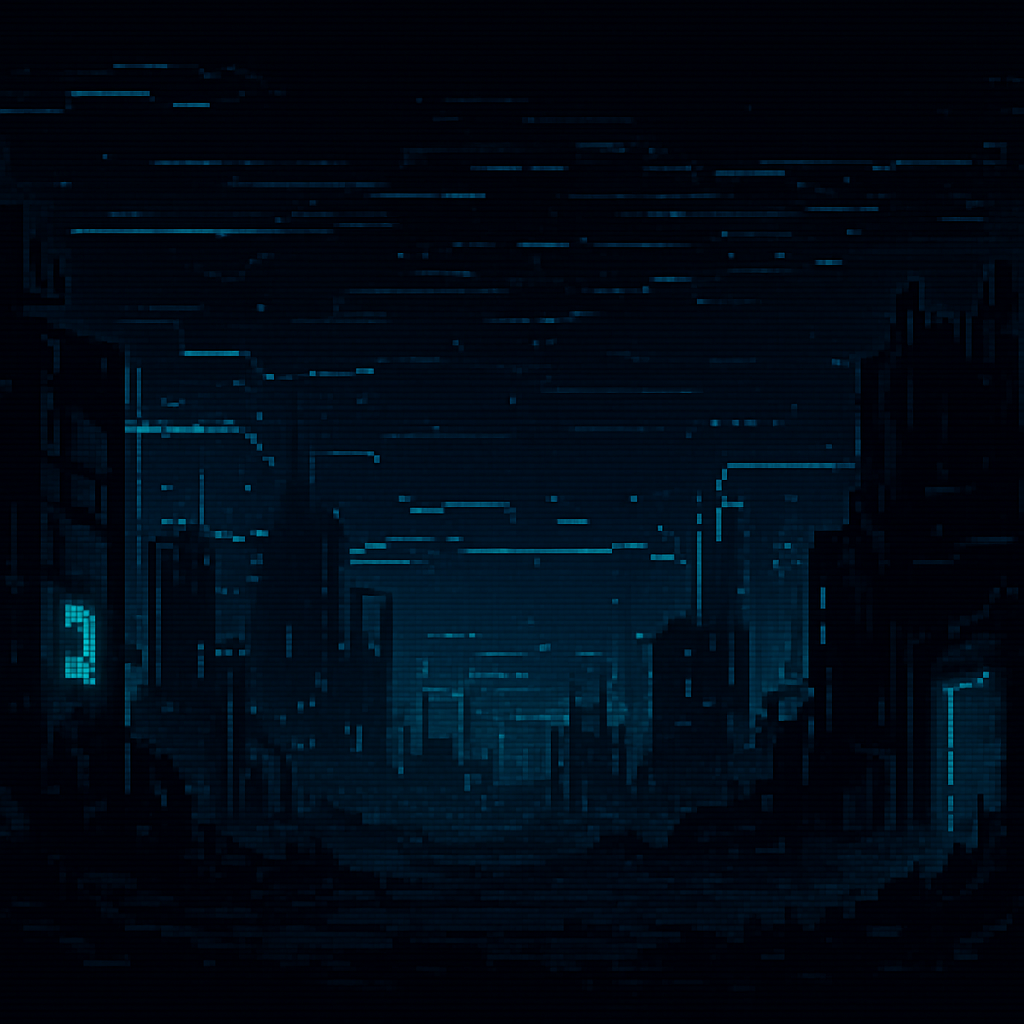
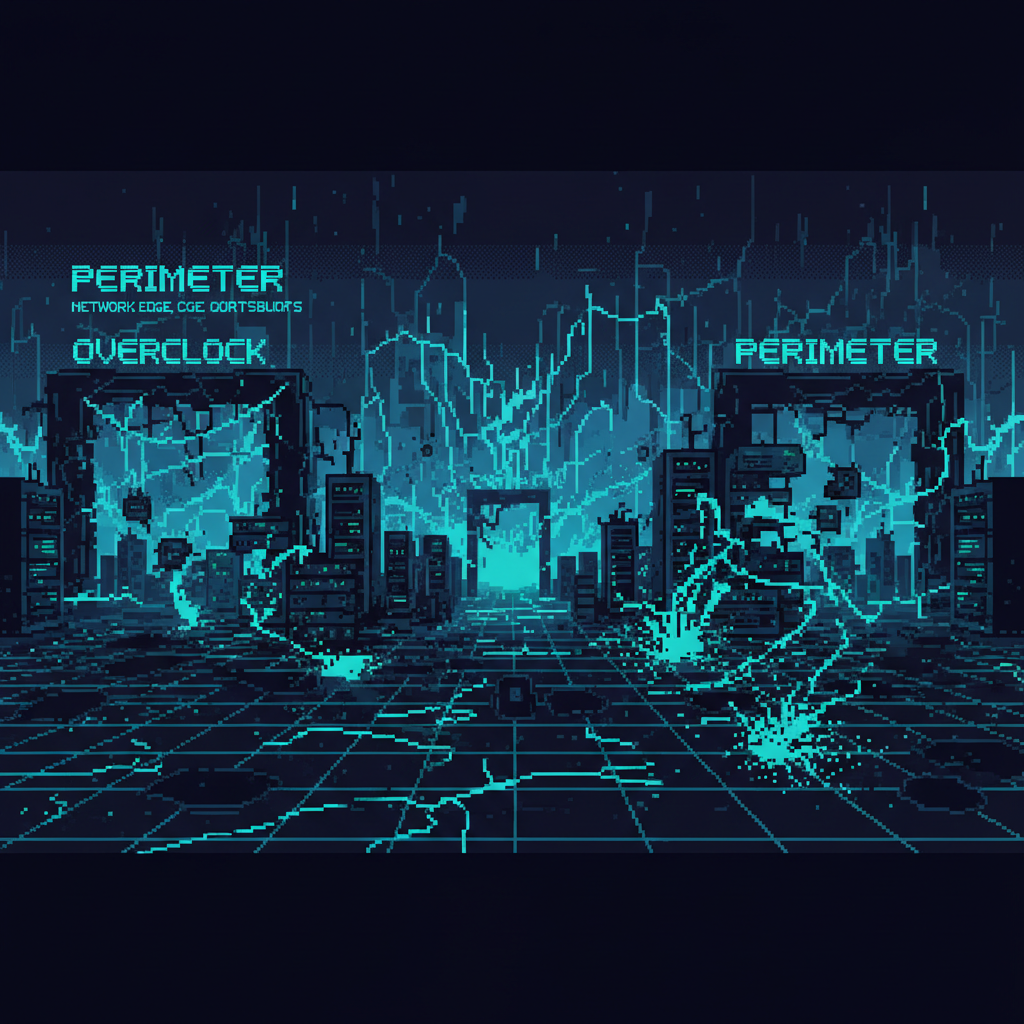
feat: update sprite background to magenta and remove background images

diff --git a/src/config/assets.config.ts b/src/config/assets.config.ts
@@ -49,64 +49,19 @@ export interface MonsterSpriteDef {
 
 export const MONSTER_SPRITES: MonsterSpriteDef[] = [
   // ════════════════════════════════════════════════════════════════════════════
-  // TIER 1 ENEMIES (Stages 1-50: PERIMETER) - 25 enemies
+  // TIER 1 ENEMIES (Stages 1-50: PERIMETER) - 5 enemies
   // Lesser malware, glitchy viruses, weak but hostile digital creatures
   // ════════════════════════════════════════════════════════════════════════════
-  { name: 'MALWARE_BAT', tiers: [{ tier: 1, src: '/assets/enemies/tier1/malware_bat.png', scale: 1.0 }] },
-  { name: 'CORRUPT_PROC', tiers: [{ tier: 1, src: '/assets/enemies/tier1/corrupt_proc.png', scale: 1.0 }] },
-  { name: 'NULL_PTR', tiers: [{ tier: 1, src: '/assets/enemies/tier1/null_ptr.png', scale: 1.0 }] },
-  { name: 'STACK_OVERFLOW', tiers: [{ tier: 1, src: '/assets/enemies/tier1/stack_overflow.png', scale: 1.0 }] },
-  { name: 'SPAM_BOT', tiers: [{ tier: 1, src: '/assets/enemies/tier1/spam_bot.png', scale: 1.0 }] },
-  { name: 'ADWARE_IMP', tiers: [{ tier: 1, src: '/assets/enemies/tier1/adware_imp.png', scale: 1.0 }] },
-  { name: 'POPUP_GREMLIN', tiers: [{ tier: 1, src: '/assets/enemies/tier1/popup_gremlin.png', scale: 1.0 }] },
-  { name: 'COOKIE_THIEF', tiers: [{ tier: 1, src: '/assets/enemies/tier1/cookie_thief.png', scale: 1.0 }] },
-  { name: 'SCRIPT_KIDDIE', tiers: [{ tier: 1, src: '/assets/enemies/tier1/script_kiddie.png', scale: 1.0 }] },
-  { name: 'TOOLBAR_WORM', tiers: [{ tier: 1, src: '/assets/enemies/tier1/toolbar_worm.png', scale: 1.0 }] },
-  { name: 'CACHE_GOBLIN', tiers: [{ tier: 1, src: '/assets/enemies/tier1/cache_goblin.png', scale: 1.0 }] },
-  { name: 'PING_PHANTOM', tiers: [{ tier: 1, src: '/assets/enemies/tier1/ping_phantom.png', scale: 1.0 }] },
-  { name: 'SYNTAX_ERROR', tiers: [{ tier: 1, src: '/assets/enemies/tier1/syntax_error.png', scale: 1.0 }] },
-  { name: 'BUG_SWARM', tiers: [{ tier: 1, src: '/assets/enemies/tier1/bug_swarm.png', scale: 1.0 }] },
-  { name: 'PIXEL_GLITCH', tiers: [{ tier: 1, src: '/assets/enemies/tier1/pixel_glitch.png', scale: 1.0 }] },
-  { name: 'BYTE_MITE', tiers: [{ tier: 1, src: '/assets/enemies/tier1/byte_mite.png', scale: 1.0 }] },
-  { name: 'DATA_LEECH', tiers: [{ tier: 1, src: '/assets/enemies/tier1/data_leech.png', scale: 1.0 }] },
-  { name: 'TEMP_FILE', tiers: [{ tier: 1, src: '/assets/enemies/tier1/temp_file.png', scale: 1.0 }] },
-  { name: 'JUNK_CODE', tiers: [{ tier: 1, src: '/assets/enemies/tier1/junk_code.png', scale: 1.0 }] },
-  { name: 'DEAD_LINK', tiers: [{ tier: 1, src: '/assets/enemies/tier1/dead_link.png', scale: 1.0 }] },
-  { name: 'BROKEN_PIPE', tiers: [{ tier: 1, src: '/assets/enemies/tier1/broken_pipe.png', scale: 1.0 }] },
-  { name: 'LOST_PACKET', tiers: [{ tier: 1, src: '/assets/enemies/tier1/lost_packet.png', scale: 1.0 }] },
-  { name: 'GARBAGE_COLLECTOR', tiers: [{ tier: 1, src: '/assets/enemies/tier1/garbage_collector.png', scale: 1.0 }] },
-  { name: 'MEMORY_FRAGMENT', tiers: [{ tier: 1, src: '/assets/enemies/tier1/memory_fragment.png', scale: 1.0 }] },
-  { name: 'ORPHAN_PROCESS', tiers: [{ tier: 1, src: '/assets/enemies/tier1/orphan_process.png', scale: 1.0 }] },
+  { name: 'GLITCH_BAT', tiers: [{ tier: 1, src: '/assets/enemies/tier1/glitch_bat.png', scale: 1.0 }] },
+  { name: 'DATA_WORM', tiers: [{ tier: 1, src: '/assets/enemies/tier1/data_worm.png', scale: 1.0 }] },
+  { name: 'PIXEL_SPIDER', tiers: [{ tier: 1, src: '/assets/enemies/tier1/pixel_spider.png', scale: 1.0 }] },
+  { name: 'ERROR_SKULL', tiers: [{ tier: 1, src: '/assets/enemies/tier1/error_skull.png', scale: 1.0 }] },
+  { name: 'VIRUS_BLOB', tiers: [{ tier: 1, src: '/assets/enemies/tier1/virus_blob.png', scale: 1.0 }] },
 
   // ════════════════════════════════════════════════════════════════════════════
-  // ELITE ENEMIES - 10 elite variants (stronger, can appear in any tier)
-  // Medium-sized, more detailed, golden/special auras
+  // BOSS SPRITES
   // ════════════════════════════════════════════════════════════════════════════
-  { name: 'ALPHA_VIRUS', tiers: [{ tier: 1, src: '/assets/enemies/elite/alpha_virus.png', scale: 1.1 }] },
-  { name: 'CHROME_HUNTER', tiers: [{ tier: 1, src: '/assets/enemies/elite/chrome_hunter.png', scale: 1.1 }] },
-  { name: 'NEON_WRAITH', tiers: [{ tier: 1, src: '/assets/enemies/elite/neon_wraith.png', scale: 1.1 }] },
-  { name: 'DATA_REAPER', tiers: [{ tier: 1, src: '/assets/enemies/elite/data_reaper.png', scale: 1.1 }] },
-  { name: 'FIREWALL_BREAKER', tiers: [{ tier: 1, src: '/assets/enemies/elite/firewall_breaker.png', scale: 1.1 }] },
-  { name: 'QUANTUM_SHIFTER', tiers: [{ tier: 1, src: '/assets/enemies/elite/quantum_shifter.png', scale: 1.1 }] },
-  { name: 'CRYPT_SENTINEL', tiers: [{ tier: 1, src: '/assets/enemies/elite/crypt_sentinel.png', scale: 1.1 }] },
-  { name: 'MEMORY_DEVOURER', tiers: [{ tier: 1, src: '/assets/enemies/elite/memory_devourer.png', scale: 1.1 }] },
-  { name: 'PROXY_ASSASSIN', tiers: [{ tier: 1, src: '/assets/enemies/elite/proxy_assassin.png', scale: 1.1 }] },
-  { name: 'OVERCLOCK_DAEMON', tiers: [{ tier: 1, src: '/assets/enemies/elite/overclock_daemon.png', scale: 1.1 }] },
-
-  // ════════════════════════════════════════════════════════════════════════════
-  // BOSS SPRITES (10 bosses that cycle through stages)
-  // Ironically hilarious but evil - each has a personality flaw
-  // ════════════════════════════════════════════════════════════════════════════
-  { name: 'THE_FIREWALL', tiers: [{ tier: 1, src: '/assets/enemies/boss_the_firewall.png', scale: 1.2 }], bossTiers: [{ tier: 1, src: '/assets/enemies/boss_the_firewall.png', scale: 1.2 }] },
-  { name: 'DARK_ANTIVIRUS', tiers: [{ tier: 1, src: '/assets/enemies/boss_dark_antivirus.png', scale: 1.2 }], bossTiers: [{ tier: 1, src: '/assets/enemies/boss_dark_antivirus.png', scale: 1.2 }] },
-  { name: 'CHAOS_KERNEL', tiers: [{ tier: 1, src: '/assets/enemies/boss_chaos_kernel.png', scale: 1.2 }], bossTiers: [{ tier: 1, src: '/assets/enemies/boss_chaos_kernel.png', scale: 1.2 }] },
-  { name: 'OMEGA_ROOTKIT', tiers: [{ tier: 1, src: '/assets/enemies/boss_omega_rootkit.png', scale: 1.2 }], bossTiers: [{ tier: 1, src: '/assets/enemies/boss_omega_rootkit.png', scale: 1.2 }] },
-  { name: 'SYSTEM32_WRAITH', tiers: [{ tier: 1, src: '/assets/enemies/boss_system32_wraith.png', scale: 1.2 }], bossTiers: [{ tier: 1, src: '/assets/enemies/boss_system32_wraith.png', scale: 1.2 }] },
-  { name: 'BIOS_CORRUPTION', tiers: [{ tier: 1, src: '/assets/enemies/boss_bios_corruption.png', scale: 1.2 }], bossTiers: [{ tier: 1, src: '/assets/enemies/boss_bios_corruption.png', scale: 1.2 }] },
-  { name: 'QUANTUM_MALWARE', tiers: [{ tier: 1, src: '/assets/enemies/boss_quantum_malware.png', scale: 1.2 }], bossTiers: [{ tier: 1, src: '/assets/enemies/boss_quantum_malware.png', scale: 1.2 }] },
-  { name: 'THE_NULL_GOD', tiers: [{ tier: 1, src: '/assets/enemies/boss_the_null_god.png', scale: 1.3 }], bossTiers: [{ tier: 1, src: '/assets/enemies/boss_the_null_god.png', scale: 1.3 }] },
-  { name: 'PHANTOM_OVERLORD', tiers: [{ tier: 1, src: '/assets/enemies/boss_phantom_overlord.png', scale: 1.3 }], bossTiers: [{ tier: 1, src: '/assets/enemies/boss_phantom_overlord.png', scale: 1.3 }] },
-  { name: 'DEEP_PACKET_KING', tiers: [{ tier: 1, src: '/assets/enemies/boss_deep_packet_king.png', scale: 1.3 }], bossTiers: [{ tier: 1, src: '/assets/enemies/boss_deep_packet_king.png', scale: 1.3 }] },
+  { name: 'THE_FIREWALL', tiers: [{ tier: 1, src: '/assets/enemies/boss/the_firewall.png', scale: 1.3 }], bossTiers: [{ tier: 1, src: '/assets/enemies/boss/the_firewall.png', scale: 1.3 }] },
 ];
 
 // ── SPRITE LOOKUP FUNCTIONS ──────────────────────────────────────────────────
@@ -262,38 +217,7 @@ export const ZONE_BACKGROUNDS: ZoneBackgroundDef[] = [
     position: 'center',
     overlayOpacity: 0.5,
   },
-  // ── Zone 1: FIREWALL ────────────────���───────────────────────────────────────
-  {
-    zoneId: 1,
-    src: '/assets/backgrounds/firewall.png',
-    fit: 'cover',
-    position: 'center',
-    overlayOpacity: 0.5,
-  },
-  // ── Zone 2: KERNEL ──────────────────────────────────────────────────────────
-  {
-    zoneId: 2,
-    src: '/assets/backgrounds/kernel.png',
-    fit: 'cover',
-    position: 'center',
-    overlayOpacity: 0.5,
-  },
-  // ── Zone 3: CORE ────────────────────────────────────────────────────────────
-  {
-    zoneId: 3,
-    src: '/assets/backgrounds/core.png',
-    fit: 'cover',
-    position: 'center',
-    overlayOpacity: 0.5,
-  },
-  // ── Zone 4: THE VOID ────────────────────────────────────────────────────────
-  {
-    zoneId: 4,
-    src: '/assets/backgrounds/void.png',
-    fit: 'cover',
-    position: 'center',
-    overlayOpacity: 0.4,
-  },
+  // Other zones use procedural backgrounds until images are generated
 ];
 
 /**

diff --git a/src/config/game.config.ts b/src/config/game.config.ts
@@ -428,46 +428,29 @@ export const ENEMY_CONFIG = {
 
   /** 
    * Enemy name pools, indexed by tier (one tier = 50 stages).
-   * 25 unique enemies in Tier 1. Other tiers pending sprites.
+   * 5 unique enemies in Tier 1. Other tiers pending sprites.
    * Within a stage, random enemies from the tier's pool are selected for phases 1-9.
    */
   enemyNamesByTier: [
     // Tier 1 (Stages 1-50): PERIMETER - Lesser malware, weak threats
-    [
-      'MALWARE_BAT', 'CORRUPT_PROC', 'NULL_PTR', 'STACK_OVERFLOW', 'SPAM_BOT',
-      'ADWARE_IMP', 'POPUP_GREMLIN', 'COOKIE_THIEF', 'SCRIPT_KIDDIE', 'TOOLBAR_WORM',
-      'CACHE_GOBLIN', 'PING_PHANTOM', 'SYNTAX_ERROR', 'BUG_SWARM', 'PIXEL_GLITCH',
-      'BYTE_MITE', 'DATA_LEECH', 'TEMP_FILE', 'JUNK_CODE', 'DEAD_LINK',
-      'BROKEN_PIPE', 'LOST_PACKET', 'GARBAGE_COLLECTOR', 'MEMORY_FRAGMENT', 'ORPHAN_PROCESS',
-    ],
+    ['GLITCH_BAT', 'DATA_WORM', 'PIXEL_SPIDER', 'ERROR_SKULL', 'VIRUS_BLOB'],
     // Tier 2+ uses Tier 1 pool until more sprites are generated
   ] as string[][],
 
   /** 
-   * Elite enemy names - 10 unique elites that randomly replace normal enemies.
-   * Elite appears based on eliteChance (15% default).
+   * Elite enemy names - uses regular enemies with elite modifier for now.
    */
   eliteNames: [
-    'ALPHA_VIRUS', 'CHROME_HUNTER', 'NEON_WRAITH', 'DATA_REAPER', 'FIREWALL_BREAKER',
-    'QUANTUM_SHIFTER', 'CRYPT_SENTINEL', 'MEMORY_DEVOURER', 'PROXY_ASSASSIN', 'OVERCLOCK_DAEMON',
+    'GLITCH_BAT', 'DATA_WORM', 'PIXEL_SPIDER', 'ERROR_SKULL', 'VIRUS_BLOB',
   ] as string[],
 
   /** 
-   * Boss names - 10 unique bosses that cycle through stages.
+   * Boss names - 1 boss currently, more can be added.
    * Boss appears at phase 10 of each stage.
-   * Boss index = (stage - 1) % 10
+   * Boss index = (stage - 1) % bossNames.length
    */
   bossNames: [
-    'THE_FIREWALL',       // Stage 1, 11, 21...
-    'DARK_ANTIVIRUS',     // Stage 2, 12, 22...
-    'CHAOS_KERNEL',       // Stage 3, 13, 23...
-    'OMEGA_ROOTKIT',      // Stage 4, 14, 24...
-    'SYSTEM32_WRAITH',    // Stage 5, 15, 25...
-    'BIOS_CORRUPTION',    // Stage 6, 16, 26...
-    'QUANTUM_MALWARE',    // Stage 7, 17, 27...
-    'THE_NULL_GOD',       // Stage 8, 18, 28...
-    'PHANTOM_OVERLORD',   // Stage 9, 19, 29...
-    'DEEP_PACKET_KING',   // Stage 10, 20, 30...
+    'THE_FIREWALL',
   ] as string[],
 } as const;
 
@@ -870,7 +853,7 @@ export const DIAMOND_CATALOG: ShopItemDef[] = [
 
 export const SHOP_CATALOG: ShopItemDef[] = [...OCT_CATALOG, ...DIAMOND_CATALOG];
 
-// ── DAILIES ─────────────────────────────────────────────────────────────���─────
+// ── DAILIES ───────────────────────��─────────────────────────────────────���─────
 
 export interface ChallengeTemplateDef {
   type: string;
@@ -912,7 +895,7 @@ export const DAILY_CONFIG = {
 } as const;
 
 export const CHALLENGE_TEMPLATES: ChallengeTemplateDef[] = [
-  // ── Basic ───────────────────────────────────────────────────────��────────
+  // ── Basic ──────────────────────────────────────────��────────────��────────
   { type: 'kill_enemies',    label: 'Eliminate {n} enemies',          targetFn: s => 10 + s * 2,              rewardFn: s => 50  + s * 20  },
   { type: 'earn_gold',       label: 'Earn {n} gold',                   targetFn: s => 100 + s * 50,            rewardFn: s => 30  + s * 15  },
   { type: 'use_skills',      label: 'Use skills {n} times',            targetFn: () => 5,                      rewardFn: s => 40  + s * 10  },

diff --git a/src/hooks/useSpritePreloader.ts b/src/hooks/useSpritePreloader.ts
@@ -40,15 +40,8 @@ function preloadSprite(src: string): Promise<void> {
  * Preload all sprites for a specific tier
  */
 export function preloadTierSprites(tier: number): void {
-  // Get all enemy names for this tier from game config
-  const tierEnemies = MONSTER_SPRITES.filter((_, index) => {
-    // Enemies are grouped by tier: 0-4 = tier 0, 5-9 = tier 1, etc.
-    const enemyTier = Math.floor(index / 5);
-    return enemyTier === tier && index < 25; // Only regular enemies, not bosses
-  });
-
-  // Preload all sprites for this tier
-  for (const enemy of tierEnemies) {
+  // Preload all monster sprites (we have a small set now)
+  for (const enemy of MONSTER_SPRITES) {
     for (const sprite of enemy.tiers) {
       preloadSprite(sprite.src);
     }
@@ -59,13 +52,10 @@ export function preloadTierSprites(tier: number): void {
  * Preload boss sprites
  */
 export function preloadBossSprites(): void {
-  // Bosses are at indices 25-34
-  const bosses = MONSTER_SPRITES.slice(25, 35);
+  // Find all monsters with bossTiers
+  const bosses = MONSTER_SPRITES.filter(m => m.bossTiers && m.bossTiers.length > 0);
   
   for (const boss of bosses) {
-    for (const sprite of boss.tiers) {
-      preloadSprite(sprite.src);
-    }
     if (boss.bossTiers) {
       for (const sprite of boss.bossTiers) {
         preloadSprite(sprite.src);

diff --git a/docs/sprite_prompts.md b/docs/sprite_prompts.md
@@ -14,7 +14,7 @@ Sprite Tier: [1-5]
 - 32-bit retro pixel art style, clean edges, NO anti-aliasing, NO blur
 - IMAGE SIZE: 512x512 pixels (ALWAYS - no exceptions)
 - SPRITE SIZE: Monster centered, occupying tier-defined % of canvas
-- Background: SOLID BLACK (#000000)
+- Background: SOLID MAGENTA (#FF00FF) - chroma key for easy removal
 - NO compression artifacts, NO noise, NO grain
 - NO text, numbers, or symbols ON sprite body
 - NO UI elements, health bars, labels, watermarks